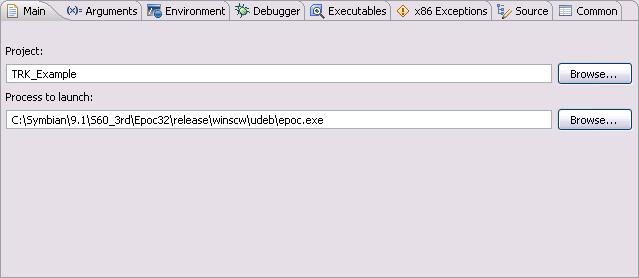
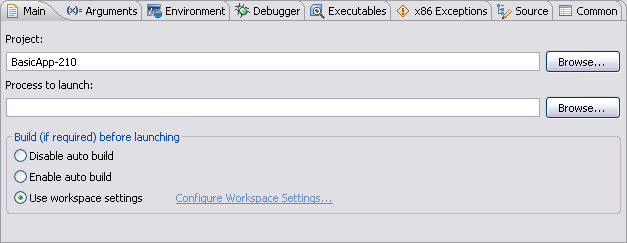
Updated New Launch Config and Launch Config Main pages

diff --git a/core/com.nokia.carbide.cpp.doc.user/html/projects/launch/wiz_new_launch_config.htm b/core/com.nokia.carbide.cpp.doc.user/html/projects/launch/wiz_new_launch_config.htm
@@ -21,6 +21,7 @@
     <td><ul>
       <li><a href="#CATEGORY">Category Type</a></li>
       <li><a href="#LAUNCH">Launch Type</a></li>
+      <li><a href="#BLD_OPT">Build Option Selection</a></li>
       <li><a href="#EXE_SEL">Executable Selection</a></li>
       <li><a href="#FINISH">New Launch Configuration</a></li>
     </ul>      </td>
@@ -59,49 +60,53 @@ For emulator targets, the New Launch Configuration Wizard automatically gathers 
 <p align="center"><img src="../../images/icons/menu_build_target.png" width="270" height="120"></p>
 <p class="figure">Figure 1 - Build Target selection list </p>
 <h3><a name="CATEGORY" id="LAUNCH2"></a>Category Types</h3>
-<p>Use the<b> Category Types</b> page to select the the  launch category.  The choices include Phone, Board, and possibly others. The choice made here filters the <b>Launch Types</b> page to  show valid launch configurations. Once a category is selected, click <b>Next</b>. </p>
+<p>Use the<b> Category Types</b> page to select the the  launch category.  The choices include Phone, Board, and possibly others. The choice made here filters the <b>Launch Types</b> page to  only show valid launch configurations. Once a category is selected, click <b>Next</b>. </p>
 <p align="center"><img src="images/wiz_launch_config_categories.png" width="438" height="533"></p>
 <p class="figure">Figure 2 - Category Types page </p>
 <h3><a name="LAUNCH" id="LAUNCH"></a>Launch Types</h3>
 <p>Use the<b> Launch Types</b> page to select the type of launch configuration for the build target. This page does not appear when using an Emulator target. Available types are listed from the most frequently chosen (Application TRK) to the least likely type (Attach to Process). Select a type and click <b>Next</b>. </p>
 <p align="center"><img src="../../images/icons/wiz_launch_config_launch_types.png" width="438" height="533"></p>
 <p class="figure">Figure 3 - Launch Type page </p>
+<h3><a name="BLD_OPT" id="EXE_SEL2"></a>Build Options Selection </h3>
+<p>Use the <b>Build Options Selection </b> page to define if the launch configuration uses auto build or not. Choices include using the global auto built setting (default), enable or disable auto build for the launch configuration. You can also set the global option using the Configure Workspace Settings... to open the Launching preference panel.</p>
+<p align="center"><img src="images/wiz_launch_config_build_options.png" width="484" height="533"></p>
+<p class="figure">Figure 4 - Build Options Selection page </p>
 <h3><a name="EXE_SEL" id="EXE_SEL"></a>Executable Selection </h3>
 <p>Use the <b>Application Selection </b> page to choose a binary created by the project to launch and debug and verify its location. If only a single binary is available the <b>Process to launch</b> option is disabled. </p>
 <p><b>EMULATOR ONLY</b> Use the <b>Location</b> field for emulator targets to verify that the correct executable on the host is selected. This field is not used with on-device launch configurations. </p>
 <p>Use the <b>Specify device path of remote process to launch</b> option to specify alternate paths for launching the executable from RAM (c:\sys\bin\), ROM (z:\sys\bin\) or  memory cards (e:\sys\bin\) . </p>
 <p>Select the Executable to launch, verify it is the correct binary, then click <b>Next</b>. </p>
 <p align="center"><img src="../../images/icons/wiz_launch_config_app_selection.png" width="438" height="533"> </p>
-<p class="figure">Figure 4 - Executable Selection page (when project has multiple EXEs)</p>
+<p class="figure">Figure 5 - Executable Selection page (when project has multiple EXEs)</p>
 <h3><a name="TRK_CONN" id="TRK_CONN"></a>TRK Connection Settings </h3>
 <p>Use the <b>TRK Connection Settings</b> page to specify the connection used to communicate with the target device. If the device is already connected, the drop down list will include both the COM port and the name of the device using that port. Use the <a href="../../reference/trk/wnd_on_device_setup.htm">On-Device Conection</a> dialog to verify and update all Carbide software services on the device. Choose the serial port used to communicate with the target device and click <b>Next</b>. </p>
-<p align="center"><img src="../../images/icons/wiz_launch_config_trk_conn.png" width="463" height="533"> </p>
-<p class="figure">Figure 5 - TRK Connection Settings  page </p>
+<p align="center"><img src="../../images/icons/wiz_launch_config_trk_conn.png" width="487" height="533"> </p>
+<p class="figure">Figure 6 - TRK Connection Settings  page </p>
 <p>&nbsp;</p>
 <h3><a name="TRK_SIS" id="TRK_SIS"></a>TRK SIS Selection</h3>
 <p>Use the <b>TRK SIS Selection</b> page to select the SIS file to install on the target device. Click the <b>Modify SIS builder settings for build configuration</b> link to open the <a href="../../reference/build_properties/pane_build_config_sis.htm">SIS Builder</a> properties pane to add, edit, or review  the SIS files to build. Once the correct SIS File to Install is selected, click <b>Next</b>. </p>
 <p align="center"><img src="../../images/icons/wiz_launch_config_trk_sis.png" width="463" height="533"></p>
-<p class="figure">Figure 6 - TRK SIS Selection page </p>
+<p class="figure">Figure 7 - TRK SIS Selection page </p>
 <h3><a name="FINISH" id="FINISH"></a>New Launch Configuration</h3>
 <p>Use the <b>New Launch Configuration</b> page to note the name of the configuration, confirm the launch configuration settings,  and then launch the debug session. If something doesn't look right, click <b>Back</b> to return to a page and change its setting. If all the settings are correct, click <b>Finish</b> to start the debug session using this launch configuration. </p>
 <p>If you checkmark <b> Advanced settings</b>, the <a href="../../reference/wnd_debug_configuration.htm">Debug</a> dialog appears instead of launching the project. This enables you to make additional changes to the new launch configuration before starting the debug session. By design and intent, this should seldom be required for the initial launch. </p>
 <p align="center"><img src="../../images/icons/wiz_launch_config_finish.png" width="438" height="533"></p>
-<p class="figure">Figure 7 - New Launch Configuration page </p>
+<p class="figure">Figure 8 - New Launch Configuration page </p>
 <h3><a name="TRACE32" id="TRACE32"></a>Trace32 Initialization Settings</h3>
 <p>Use the <b>Trace32 Initialization Settings</b> page to specify the <a href="../../reference/wnd_Trace32_config.htm">initialization</a> script and target processor of the target device.Enter the Trace32 Initialization Script and choose the Target Processor, then click <b>Next</b>. </p>
 <p> This page only appears when creating a Trace32 launch configuration. </p>
 <p align="center"><img src="../../images/icons/wiz_launch_config_trace32.png" width="438" height="533"></p>
-<p class="figure">Figure 8 - <b>Trace32 Initialization Settings</b> page </p>
+<p class="figure">Figure 9 - <b>Trace32 Initialization Settings</b> page </p>
 <h3><a name="SOPHIA" id="SOPHIA"></a>Sophia STI  Initialization Settings</h3>
 <p>Use the <b>Sophia STI  Initialization Settings</b> page to specify the target interface, <a href="../../reference/wnd_sophia_config.htm">initialization</a> file,  and target processor of the target device. Enter the Sophia Target Interface and Target Initialization File paths, choose a Target Processor, then click <b>Next</b>. </p>
 <p>This page only appears when creating a Sophia STI launch configuration. </p>
 <p align="center"><img src="../../images/icons/wiz_launch_config_sophia.png" width="438" height="533"></p>
-<p class="figure">Figure 9 - Sophia STI  Initialization Settings page </p>
+<p class="figure">Figure 10 - Sophia STI  Initialization Settings page </p>
 <h3><a name="ROM_IMG" id="ROM_IMG"></a>Symbian ROM Image  Settings</h3>
 <p>Use the <b>Symbian ROM Image Settings</b> page to specify the method of <a href="../../reference/launch_configs/page_trk_debugger.htm">debugging</a>, the start address, and the <a href="../../reference/launch_configs/stop_mode_rom_image.htm">ROM Image</a> and Log File locations.  </p>
 <p>This page  appears when creating a Trace32 or Sophia STI launch configuration. </p>
 <p align="center"><img src="../../images/icons/wiz_launch_config_rom_image.png" width="438" height="533"></p>
-<p class="figure">Figure 10 - Symbian ROM Image  Settings page</p>
+<p class="figure">Figure 11 - Symbian ROM Image  Settings page</p>
 <h5>Other references</h5>
 <ul>
   <li><a href="../../projects/launch/launch_configs_overview.htm">Launch Configuration</a>  </li>

diff --git a/core/com.nokia.carbide.cpp.doc.user/html/projects/launch/page_main.htm b/core/com.nokia.carbide.cpp.doc.user/html/projects/launch/page_main.htm
@@ -18,7 +18,7 @@
 <h3><a name="emulator_mode" id="emulator_mode"></a>Emulation Main page </h3>
 <p>The <b>Symbian OS <a href="emulation.htm">Emulation</a></b> launch configuration uses the <b>Main</b> page to define the process to be launched by the emulator. </p>
 <p>The behavior that occurs when launching a debug session varies based upon the <a href="page_main.htm">SDK</a>. Normally, <a href="../../tasks/debugger/work_debug_act_start.htm">starting</a> a debug session launches the emulator (<span class="code">epoc.exe</span>) and you must then navigate to your application and open it. However, starting a debug session for an .exe file will, in most cases, launch the .exe directly. This starts the emulator and then opens your application automatically. Note that some SDKs do not support this behavior. In those cases you must still open your application in the emulator manually.</p>
-<p align="center"><img src="images/page_debug_main.png" width="639" height="278"></p>
+<p align="center"><img src="images/page_debug_main.png" width="627" height="243"></p>
 <p class="figure">Figure 1. Main page (Emulation shown) </p>
 <h5>Table 1. Emulator Main page &mdash;items </h5>
 <table width="94%"  border="0" cellpadding="2" cellspacing="0">
@@ -34,11 +34,21 @@
     <td><b>Process to launch </b></td>
     <td>The path to the emulator or executable to  launch. For Symbian OS 9.1 the emulator path is required. For Symbian OS 9.2 and later the path to the executable should be used.  Click <b>Browse</b> to select a different emulator. </td>
   </tr>
+  <tr>
+    <td><b>Build (if required) before launching</b></td>
+    <td><p>Controls how auto build is configured for the launch configuration. Changing this setting overrides the global workspace setting and can provide some speed improvements. The options include:</p>
+      <ul>
+        <li><b>Disable auto build</b> &#8211; Disables auto build for the launch configuration which may improve launch performance.</li>
+        <li><b>Enable auto build</b> &#8211; Enables auto build for the launch configuration which can slow down launch performance.</li>
+        <li><b>Use workspace settings</b> (default) &#8211; Uses the global auto build settings.</li>
+        <li><b>Configure Workspace Settings...</b> &#8211; Opens the Launching preference panel where you can change the workspace settings.</li>
+    </ul>    </td>
+  </tr>
 </table>
 
 <h3><a name="run_mode" id="run_mode"></a>Run-mode Main page </h3>
 <p>The <b>Symbian OS <a href="run_mode.htm">Application TRK </a></b> launch configuration uses the <b>Main</b> page to defines the project and the process to launch on the target device. </p>
-<p align="center"><img src="images/page_main_run_mode.png" width="615" height="264"></p>
+<p align="center"><img src="images/page_main_run_mode.png" width="545" height="337"></p>
 <p class="figure">Figure 2 - Main page (Application TRK shown) </p>
 <h5>Table 2.  Run-mode Main page &mdash;items </h5>
 <table width="94%"  border="0" cellpadding="2" cellspacing="0">
@@ -64,10 +74,14 @@
     <td><b>Use connection</b></td>
     <td>Choose the remote connection type to associate with this launch configuration. Click <a href="../../reference/trk/wnd_new_conn_wiz_add.htm">New</a> to add a new connection, or <a href="../../reference/trk/wnd_new_conn_wiz_edit.htm">Edit</a> to modify the current one.</td>
   </tr>
+  <tr>
+    <td><b>Build (if required) before launching</b></td>
+    <td>See <a href="#emulator_mode">Emulation Main page</a> above.</td>
+  </tr>
 </table>
 <h3><a name="stop_mode" id="stop_mode"></a>Stop-mode Main page </h3>
 <p>The <b>Symbian OS <a href="stop_mode.htm">System TRK</a>, <a href="sophia.htm">Sophia</a></b>, and <b><a href="trace32.htm">Trace32</a> </b> launch configurations uses the <b>Main</b> page to defines the project and the executable to launch on the target device. </p>
-<p align="center"><img src="images/page_main_stop_mode.png" width="642" height="264" /></p>
+<p align="center"><img src="images/page_main_stop_mode.png" width="603" height="337"></p>
 <p class="figure">Figure 3. Main page </p>
 <h5>Table 3. Stop-mode Main page &mdash; items</h5>
 <table width="94%"  border="0" cellpadding="2" cellspacing="0">
@@ -86,7 +100,11 @@
   </tr>
   <tr>
     <td><b>Use connection</b></td>
-    <td>Choose the remote connection type to associate with this launch configuration. Click <a href="../../reference/trk/wnd_new_conn_wiz_add.htm">New</a> to add a new connection, or <a href="../../reference/trk/wnd_new_conn_wiz_edit.htm">Edit</a> to modify the current one.</td>
+    <td>See <a href="#run_mode">Run-mode Main page</a> above.</td>
+  </tr>
+  <tr>
+    <td><b>Build (if required) before launching</b></td>
+    <td>See <a href="#emulator_mode">Emulation Main page</a> above.</td>
   </tr>
 </table>
 <h4>Other references</h4>
